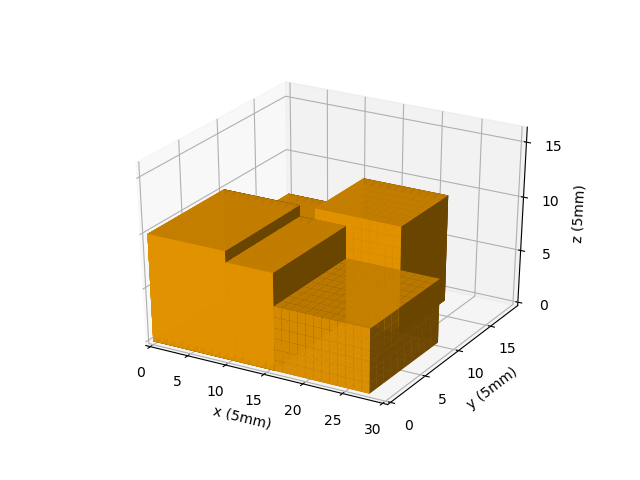
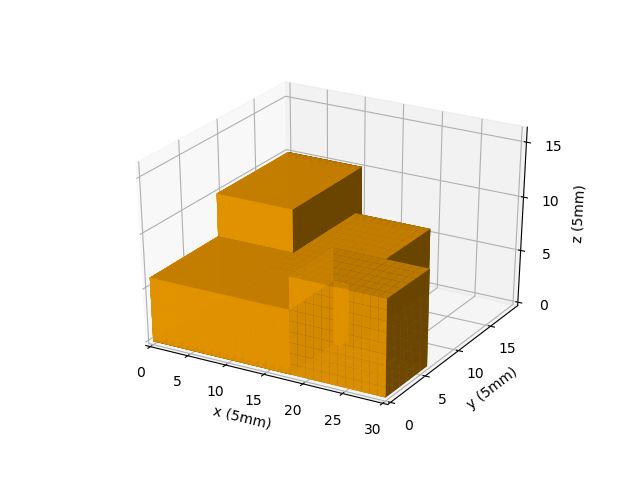
fix overlapping constraints

Changed region(s): [[0.2188, 0.3125, 0.7188, 0.8438]]

diff --git a/packing_gurobi.py b/packing_gurobi.py
@@ -136,16 +136,16 @@ def packing(container_size, item_size, enlarge=False, visualization=False):
 
     for i in range(n_item):
         # in container
-        model.addConstr(x[i] <= A - a[i], name='in_container_x_%d'%i)
-        model.addConstr(y[i] <= B - b[i], name='in_container_y_%d'%i)
-        model.addConstr(z[i] <= C - c[i], name='in_container_z_%d'%i)
+        model.addConstr(x[i] + a[i] <= A, name='in_container_x_%d'%i)
+        model.addConstr(y[i] + b[i] <= B, name='in_container_y_%d'%i)
+        model.addConstr(z[i] + c[i] <= C, name='in_container_z_%d'%i)
 
         # orientation selection
         model.addConstr(a[i] - M[i] <= U * e_am[i], name='orientation_selection_am_0_%d'%i)
         model.addConstr(M[i] - a[i] <= U * e_am[i], name='orientation_selection_am_1_%d'%i)
         model.addConstr(a[i] - N[i] <= U * e_an[i], name='orientation_selection_an_0_%d'%i)
         model.addConstr(N[i] - a[i] <= U * e_an[i], name='orientation_selection_an_1_%d'%i)
-        model.addConstr(a[i] - L[i] <= U * e_al[i], name='orientation_selection_al_0_%d'%i)
+        model.addConstr(a[i] - L[i] <=  U * e_al[i], name='orientation_selection_al_0_%d'%i)
         model.addConstr(L[i] - a[i] <= U * e_al[i], name='orientation_selection_al_1_%d'%i)
 
         model.addConstr(b[i] - M[i] <= U * e_bm[i], name='orientation_selection_bm_0_%d'%i)
@@ -172,11 +172,11 @@ def packing(container_size, item_size, enlarge=False, visualization=False):
         # non-overlapping
         for j in range(i+1, n_item):
             model.addConstr(x[j] - x[i] - a[i] >= -U * o_x[i, j], name='overlapping_x_0_%d_%d'%(i,j))
-            model.addConstr(x[j] - x[i] - a[i] >= -U * o_x[j, i], name='overlapping_x_0_%d_%d'%(j,i))
+            model.addConstr(x[i] - x[j] - a[j] >= -U * o_x[j, i], name='overlapping_x_0_%d_%d'%(j,i))
             model.addConstr(y[j] - y[i] - b[i] >= -U * o_y[i, j], name='overlapping_y_0_%d_%d'%(i,j))
-            model.addConstr(y[j] - y[i] - b[i] >= -U * o_y[j, i], name='overlapping_y_1_%d_%d'%(j,i))
+            model.addConstr(y[i] - y[j] - b[j] >= -U * o_y[j, i], name='overlapping_y_1_%d_%d'%(j,i))
             model.addConstr(z[j] - z[i] - c[i] >= -U * o_z[i, j], name='overlapping_z_0_%d_%d'%(i,j))
-            model.addConstr(z[j] - z[i] - c[i] >= -U * o_z[j, i], name='overlapping_z_1_%d_%d'%(j,i))
+            model.addConstr(z[i] - z[j] - c[j] >= -U * o_z[j, i], name='overlapping_z_1_%d_%d'%(j,i))
             model.addConstr(o_x[i, j] + o_x[j, i] + o_y[i, j] + o_y[j, i] + o_z[j, i] + o_z[j, i] <= 5, name='overlapping_sum_%d_%d'%(i,j))
             
 
